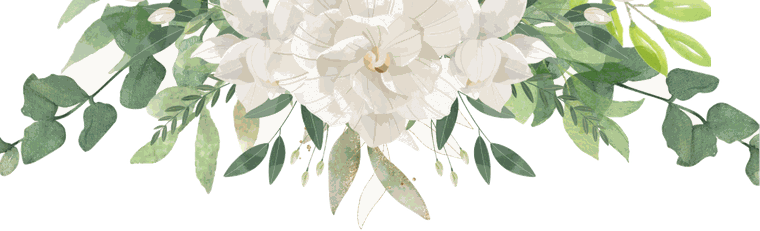
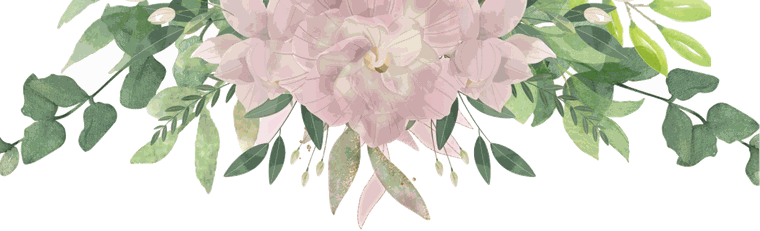
v153: guirnaldas con toque burdeos y alojamiento sin monograma

Changed region(s): [[0.2724, 0.0, 0.7263, 0.697], [0.4237, 0.7273, 0.575, 0.9697], [0.5145, 0.2424, 0.5447, 0.2727]]

diff --git a/index.html b/index.html
@@ -832,7 +832,7 @@
 </section>
 
 <!-- ======= ALOJAMIENTO ======= -->
-<section id="alojamiento" class="dark flor-abajo">
+<section id="alojamiento" class="dark flor-abajo sin-mono">
   <p class="eyebrow wrt">Para los que venís de fuera</p>
   <h2 class="sec-title wrt" style="--d:.45s">Alojamiento</h2>
   <div class="card">
